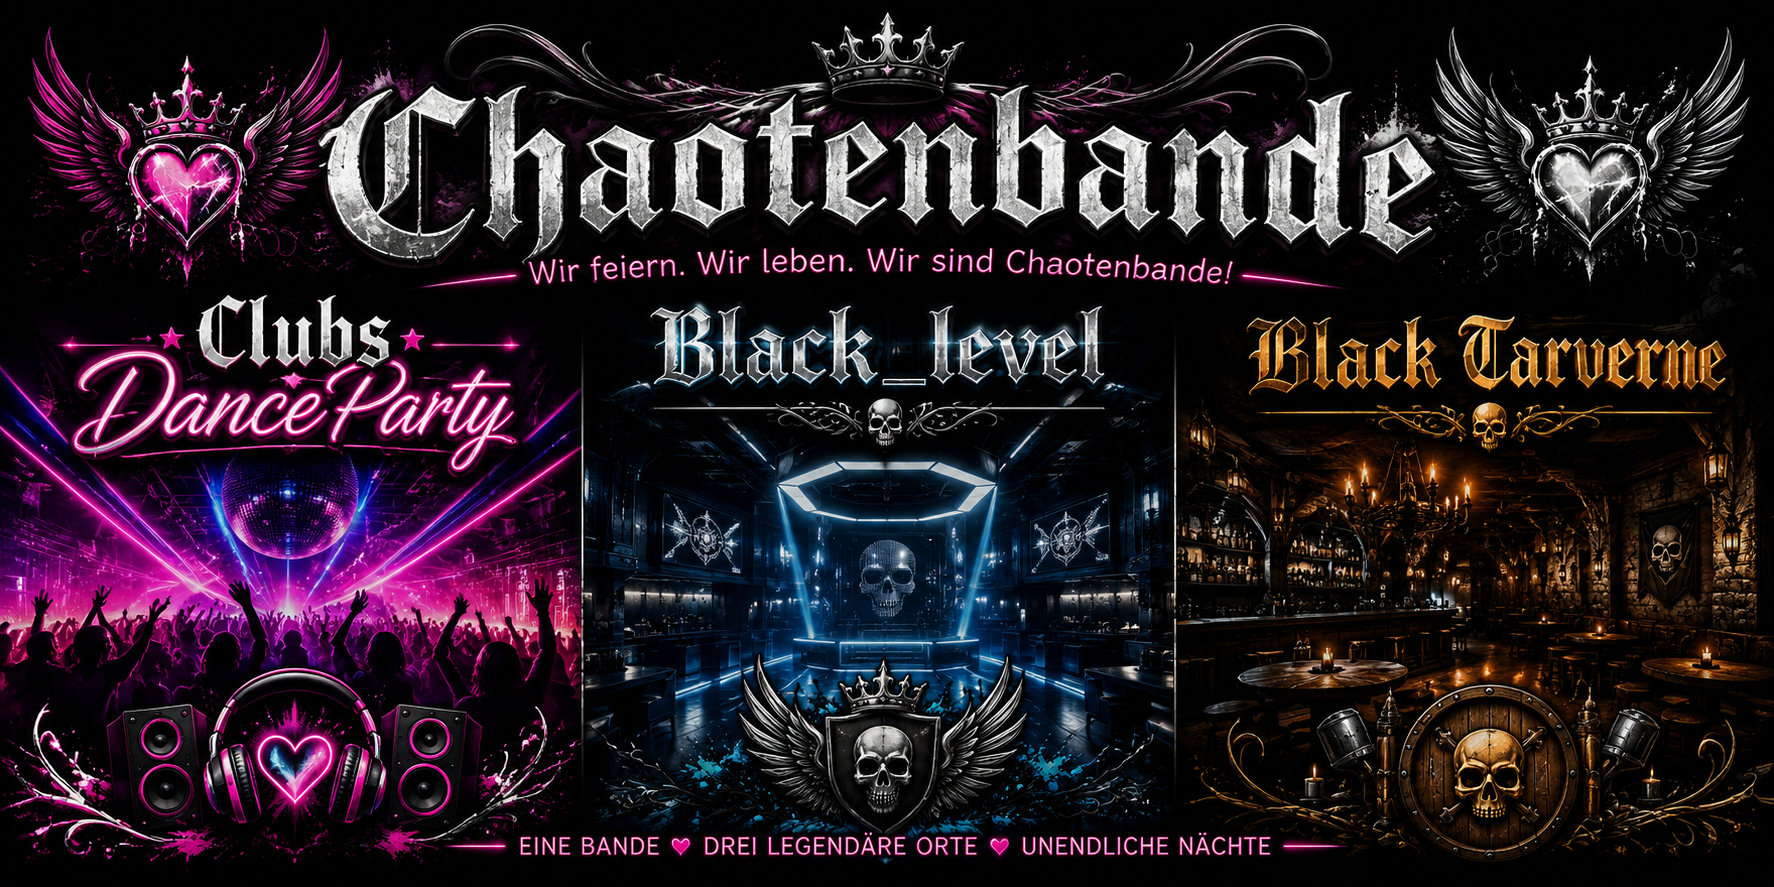
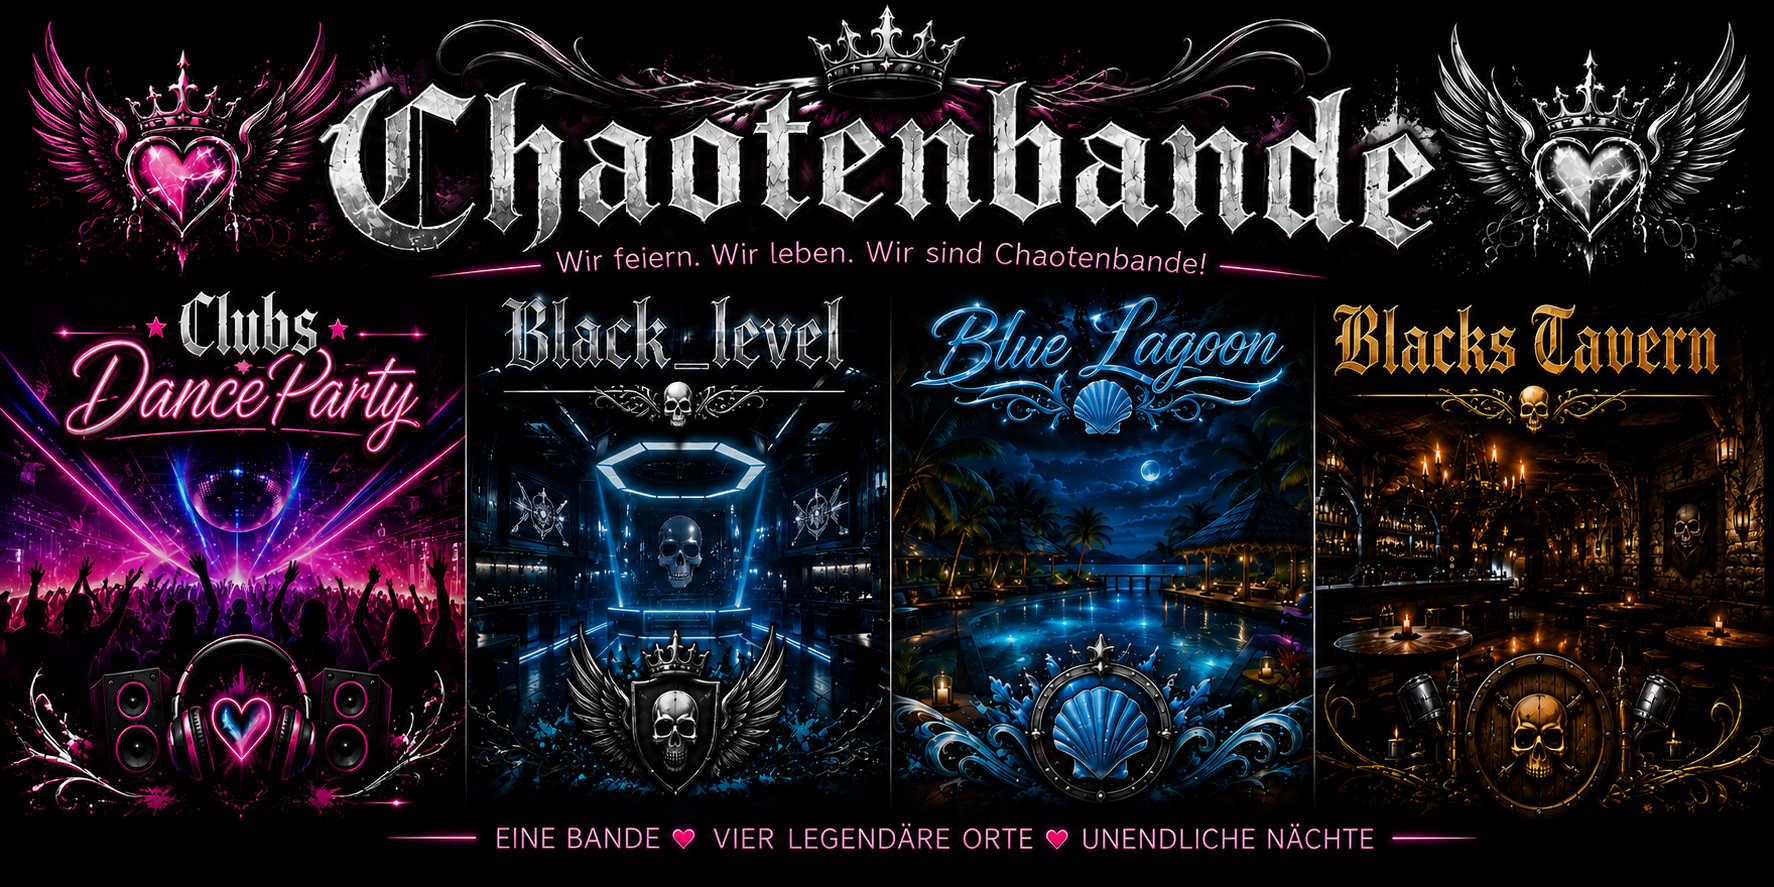
Expand Chaotenbande party page

diff --git a/docs/index.html b/docs/index.html
@@ -10,7 +10,7 @@
   <meta property="og:image" content="https://d4wizzard.github.io/chaotenbande/og.png">
   <meta property="og:type" content="website">
   <meta name="twitter:card" content="summary_large_image">
-  <link rel="icon" href="chaotenbande.png">
+  <link rel="icon" href="chaotenbande.png?v=20260807">
   <link rel="stylesheet" href="style.css?v=10">
 </head>
 <body>
@@ -20,6 +20,7 @@
       <div class="navlinks">
         <a href="#locations">Locations</a>
         <a href="#stamm">Der Stamm</a>
+        <a href="#discord">Discord</a>
         <a href="#memory">Erinnerung</a>
       </div>
     </nav>
@@ -34,24 +35,25 @@
     </header>
 
     <section class="poster" aria-label="Chaotenbande Banner">
-      <img src="chaotenbande.png" alt="Chaotenbande – Clubs, Black Level und Black Taverne">
+      <img src="chaotenbande.png?v=20260807" alt="Chaotenbande – Dance Party, Black Level, Blue Lagoon und Blacks Tavern">
     </section>
 
     <section class="statement">
-      <p>Eine Bande</p><span>♥</span><p>Drei legendäre Orte</p><span>♥</span><p>Unendliche Nächte</p>
+      <p>Eine Bande</p><span>♥</span><p>Vier legendäre Orte</p><span>♥</span><p>Unendliche Nächte</p>
     </section>
 
     <section class="section locations" id="locations">
       <div class="sectionHeading">
         <p class="eyebrow">Wo Chaos zu Magie wird</p>
-        <h2>Drei Welten.<br>Ein Gefühl.</h2>
+        <h2>Vier Welten.<br>Ein Gefühl.</h2>
       </div>
       <div class="locationGrid">
         <article class="locationCard card1"><span>01</span><div><div class="locationTitle"><span class="cbTag">CB</span><h3>GER Danceparty</h3></div><p>Neon. Bass. Ekstase.</p></div></article>
         <article class="locationCard card2"><span>02</span><div><div class="locationTitle"><span class="cbTag">CB</span><h3>Black_Level</h3></div><p>Dunkel. Elektrisch. Grenzenlos.</p></div></article>
-        <article class="locationCard card3"><span>03</span><div><div class="locationTitle"><span class="cbTag">CB</span><h3>Black Taverne</h3></div><p>Mystisch. Wild. Unvergesslich.</p></div></article>
+        <article class="locationCard card3"><span>03</span><div><div class="locationTitle"><span class="cbTag">CB</span><h3>Blue Lagoon</h3></div><p>Tropisch. Leuchtend. Frei.</p></div></article>
+        <article class="locationCard card4"><span>04</span><div><div class="locationTitle"><span class="cbTag">CB</span><h3>Blacks Tavern</h3></div><p>Mystisch. Wild. Unvergesslich.</p></div></article>
       </div>
-      <p class="bodyCopy">Ob pulsierender Dancefloor, futuristische Black-Level-Nacht oder düster-gemütliche Taverne: Die Chaoten Bande ist Gastgeber für Partys, bei denen Beats verbinden, Freundschaften entstehen und der Alltag draußen bleibt. Unsere DJs & DJanes liefern den Soundtrack – ihr macht die Nacht legendär.</p>
+      <p class="bodyCopy">Ob pulsierender Dancefloor, futuristische Black-Level-Nacht, tropische Blue Lagoon oder düster-gemütliche Taverne: Die Chaoten Bande ist Gastgeber für Partys, bei denen Beats verbinden, Freundschaften entstehen und der Alltag draußen bleibt. Unsere DJs & DJanes liefern den Soundtrack – ihr macht die Nacht legendär.</p>
     </section>
 
     <section class="section tribe" id="stamm">
@@ -65,8 +67,16 @@
         <article class="member"><img class="memberPhoto" src="bloodyrose.jpg" alt="Porträt von BloodyRose" style="object-position:center 25%"><h3>BloodyRose</h3><p>Feuer & Leidenschaft</p></article>
         <article class="member"><img class="memberPhoto" src="iamxox.png" alt="Porträt von IamXox" style="object-position:center 18%"><h3>IamXox</h3><p>Energie & Euphorie</p></article>
         <article class="member"><img class="memberPhoto" src="kimlee-darkside.png?v=20260801" alt="Porträt von KimLee_Darkside" style="object-position:center 22%"><h3>KimLee_Darkside</h3><p>Charme & Magie</p></article>
+        <article class="member"><img class="memberPhoto" src="volker.png" alt="Porträt von 🐾⇺≾⊋VØⱠ₭ɆⱤ⊊≿⇻🐾" style="object-position:center 18%"><h3>🐾⇺≾⊋VØⱠ₭ɆⱤ⊊≿⇻🐾</h3><p>Stärke & Loyalität</p></article>
       </div>
-      <p class="tribeCopy">Fünf Namen, ein Herzschlag. Gemeinsam schaffen sie Räume voller Freiheit, Respekt, Musik und echter Verbundenheit. Wer einmal mit der Chaoten Bande gefeiert hat, bleibt nicht einfach Gast – sondern wird Teil der Geschichte.</p>
+      <p class="tribeCopy">Sechs Namen, ein Herzschlag. Gemeinsam schaffen sie Räume voller Freiheit, Respekt, Musik und echter Verbundenheit. Wer einmal mit der Chaoten Bande gefeiert hat, bleibt nicht einfach Gast – sondern wird Teil der Geschichte.</p>
+    </section>
+
+    <section class="discordSection" id="discord">
+      <p class="eyebrow">Bleib mit der Bande verbunden</p>
+      <h2>Komm auf unseren<br><em>Discord-Server</em></h2>
+      <p class="discordCopy">Triff die Chaoten Bande, erfahre von kommenden Partys und Locations und werde Teil unserer Community.</p>
+      <a class="discordButton" href="https://discord.gg/CpmmsBNF3g" target="_blank" rel="noreferrer">Discord-Server beitreten <span>↗</span></a>
     </section>
 
     <section class="memory" id="memory">

diff --git a/app/page.tsx b/app/page.tsx
@@ -4,12 +4,14 @@ const members = [
   { name: "BloodyRose", role: "Feuer & Leidenschaft", image: "/bloodyrose.jpg", position: "center 25%" },
   { name: "IamXox", role: "Energie & Euphorie", image: "/iamxox.png", position: "center 18%" },
   { name: "KimLee_Darkside", role: "Charme & Magie", image: "/kimlee-darkside.png?v=20260801", position: "center 22%" },
+  { name: "🐾⇺≾⊋VØⱠ₭ɆⱤ⊊≿⇻🐾", role: "Stärke & Loyalität", image: "/volker.png", position: "center 18%" },
 ];
 
 const locations = [
   ["GER Danceparty", "Neon. Bass. Ekstase."],
   ["Black_Level", "Dunkel. Elektrisch. Grenzenlos."],
-  ["Black Taverne", "Mystisch. Wild. Unvergesslich."],
+  ["Blue Lagoon", "Tropisch. Leuchtend. Frei."],
+  ["Blacks Tavern", "Mystisch. Wild. Unvergesslich."],
 ];
 
 export default function Home() {
@@ -20,6 +22,7 @@ export default function Home() {
         <div className="navlinks">
           <a href="#locations">Locations</a>
           <a href="#stamm">Der Stamm</a>
+          <a href="#discord">Discord</a>
           <a href="#memory">Erinnerung</a>
         </div>
       </nav>
@@ -39,15 +42,15 @@ export default function Home() {
 
       <section className="poster" aria-label="Chaotenbande Banner">
         <img
-          src="/chaotenbande.png"
-          alt="Chaotenbande – Clubs, Black Level und Black Taverne"
+          src="/chaotenbande.png?v=20260807"
+          alt="Chaotenbande – Dance Party, Black Level, Blue Lagoon und Blacks Tavern"
         />
       </section>
 
       <section className="statement">
         <p>Eine Bande</p>
         <span>♥</span>
-        <p>Drei legendäre Orte</p>
+        <p>Vier legendäre Orte</p>
         <span>♥</span>
         <p>Unendliche Nächte</p>
       </section>
@@ -55,7 +58,7 @@ export default function Home() {
       <section className="section locations" id="locations">
         <div className="sectionHeading">
           <p className="eyebrow">Wo Chaos zu Magie wird</p>
-          <h2>Drei Welten.<br />Ein Gefühl.</h2>
+          <h2>Vier Welten.<br />Ein Gefühl.</h2>
         </div>
         <div className="locationGrid">
           {locations.map(([name, copy], index) => (
@@ -72,8 +75,8 @@ export default function Home() {
           ))}
         </div>
         <p className="bodyCopy">
-          Ob pulsierender Dancefloor, futuristische Black-Level-Nacht oder
-          düster-gemütliche Taverne: Die Chaoten Bande ist Gastgeber für Partys,
+          Ob pulsierender Dancefloor, futuristische Black-Level-Nacht, tropische
+          Blue Lagoon oder düster-gemütliche Taverne: Die Chaoten Bande ist Gastgeber für Partys,
           bei denen Beats verbinden, Freundschaften entstehen und der Alltag
           draußen bleibt. Unsere DJs & DJanes liefern den Soundtrack – ihr macht
           die Nacht legendär.
@@ -104,11 +107,23 @@ export default function Home() {
           ))}
         </div>
         <p className="tribeCopy">
-          Fünf Namen, ein Herzschlag. Gemeinsam schaffen sie Räume voller
+          Sechs Namen, ein Herzschlag. Gemeinsam schaffen sie Räume voller
           Freiheit, Respekt, Musik und echter Verbundenheit. Wer einmal mit der
           Chaoten Bande gefeiert hat, bleibt nicht einfach Gast – sondern wird
           Teil der Geschichte.
         </p>
+      </section>
+
+      <section className="discordSection" id="discord">
+        <p className="eyebrow">Bleib mit der Bande verbunden</p>
+        <h2>Komm auf unseren<br /><em>Discord-Server</em></h2>
+        <p className="discordCopy">
+          Triff die Chaoten Bande, erfahre von kommenden Partys und Locations
+          und werde Teil unserer Community.
+        </p>
+        <a className="discordButton" href="https://discord.gg/CpmmsBNF3g" target="_blank" rel="noreferrer">
+          Discord-Server beitreten <span>↗</span>
+        </a>
       </section>
 
       <section className="memory" id="memory">

diff --git a/app/globals.css b/app/globals.css
@@ -147,11 +147,18 @@ h1 em, h2 em { color: var(--pink-soft); font-weight: 400; }
   align-items: flex-end;
   border: 1px solid rgba(255,255,255,.12);
   background: linear-gradient(120deg, rgba(255,255,255,.055), rgba(255,255,255,.01));
+  background-position: center;
+  background-size: cover;
 }
+.locationCard > * { position: relative; z-index: 1; }
+.card1 { background-image: linear-gradient(90deg, rgba(7,3,10,.78), rgba(7,3,10,.38)), url("/ger-danceparty-club.jpg"); }
+.card3 { background-image: linear-gradient(90deg, rgba(4,6,14,.8), rgba(4,6,14,.35)), url("/blue-lagoon-dance-club.jpg"); }
+.card4 { background-image: linear-gradient(90deg, rgba(10,4,3,.82), rgba(10,4,3,.38)), url("/blacks-tavern.jpg"); }
 .locationCard::after { content:""; position:absolute; inset:auto -20% -70% 35%; height:180px; filter:blur(50px); opacity:.25; }
 .card1::after { background: var(--pink); }
 .card2::after { background: var(--blue); }
 .card3::after { background: var(--gold); }
+.card4::after { background: #d77728; }
 .locationCard > span { color: #716471; font-family: Georgia, serif; }
 .locationTitle { display: flex; align-items: center; gap: 10px; }
 .cbTag {
@@ -175,7 +182,7 @@ h1 em, h2 em { color: var(--pink-soft); font-weight: 400; }
   background-size: cover;
   box-shadow: inset 0 0 90px rgba(0,0,0,.58);
 }
-.memberGrid { display: grid; grid-template-columns: repeat(5, 1fr); gap: 14px; margin: 70px 0 45px; }
+.memberGrid { display: grid; grid-template-columns: repeat(3, 1fr); gap: 14px; margin: 70px 0 45px; }
 .member { padding: 38px 18px; text-align: center; background: #0b070c; border: 1px solid #271523; transition: .3s ease; }
 .member:hover { transform: translateY(-7px); border-color: rgba(255,45,171,.55); box-shadow: 0 18px 45px rgba(255,45,171,.08); }
 .memberPhoto {
@@ -193,9 +200,35 @@ h1 em, h2 em { color: var(--pink-soft); font-weight: 400; }
   display: grid; place-items: center; color: var(--pink-soft); font-family: Georgia, serif;
   box-shadow: inset 0 0 20px rgba(255,45,171,.12), 0 0 20px rgba(255,45,171,.08);
 }
-.member h3 { font-size: 1.1rem; margin: 0 0 8px; }
+.member h3 { font-size: 1.1rem; margin: 0 0 8px; overflow-wrap: anywhere; }
 .member p { margin: 0; color: #8e808d; font-size: .78rem; letter-spacing: .08em; text-transform: uppercase; }
 .tribeCopy { color: var(--muted); line-height: 1.9; text-align: center; max-width: 760px; margin: auto; }
+
+.discordSection {
+  padding: 74px 24px;
+  text-align: center;
+  border-top: 1px solid rgba(122,100,210,.28);
+  background: radial-gradient(circle at 50% 25%, rgba(88,101,242,.22), transparent 42%), #07050b;
+}
+.discordSection h2 { margin: .15em 0; font-size: clamp(2.5rem, 5vw, 5rem); }
+.discordSection h2 em { color: #9ca7ff; }
+.discordCopy { max-width: 620px; margin: 18px auto 28px; color: var(--muted); line-height: 1.7; }
+.discordButton {
+  display: inline-flex;
+  align-items: center;
+  gap: 12px;
+  padding: 14px 22px;
+  color: #fff;
+  background: #5865f2;
+  border: 1px solid rgba(255,255,255,.18);
+  font-size: .82rem;
+  font-weight: 700;
+  letter-spacing: .08em;
+  text-transform: uppercase;
+  box-shadow: 0 14px 40px rgba(88,101,242,.24);
+  transition: transform .25s ease, box-shadow .25s ease;
+}
+.discordButton:hover { transform: translateY(-3px); box-shadow: 0 18px 50px rgba(88,101,242,.38); }
 
 .memory {
   min-height: 0;

diff --git a/docs/style.css b/docs/style.css
@@ -145,11 +145,18 @@ h1 em, h2 em { color: var(--pink-soft); font-weight: 400; }
   align-items: flex-end;
   border: 1px solid rgba(255,255,255,.12);
   background: linear-gradient(120deg, rgba(255,255,255,.055), rgba(255,255,255,.01));
+  background-position: center;
+  background-size: cover;
 }
+.locationCard > * { position: relative; z-index: 1; }
+.card1 { background-image: linear-gradient(90deg, rgba(7,3,10,.78), rgba(7,3,10,.38)), url("ger-danceparty-club.jpg"); }
+.card3 { background-image: linear-gradient(90deg, rgba(4,6,14,.8), rgba(4,6,14,.35)), url("blue-lagoon-dance-club.jpg"); }
+.card4 { background-image: linear-gradient(90deg, rgba(10,4,3,.82), rgba(10,4,3,.38)), url("blacks-tavern.jpg"); }
 .locationCard::after { content:""; position:absolute; inset:auto -20% -70% 35%; height:180px; filter:blur(50px); opacity:.25; }
 .card1::after { background: var(--pink); }
 .card2::after { background: var(--blue); }
 .card3::after { background: var(--gold); }
+.card4::after { background: #d77728; }
 .locationCard > span { color: #716471; font-family: Georgia, serif; }
 .locationTitle { display: flex; align-items: center; gap: 10px; }
 .cbTag {
@@ -173,7 +180,7 @@ h1 em, h2 em { color: var(--pink-soft); font-weight: 400; }
   background-size: cover;
   box-shadow: inset 0 0 90px rgba(0,0,0,.58);
 }
-.memberGrid { display: grid; grid-template-columns: repeat(5, 1fr); gap: 14px; margin: 70px 0 45px; }
+.memberGrid { display: grid; grid-template-columns: repeat(3, 1fr); gap: 14px; margin: 70px 0 45px; }
 .member { padding: 38px 18px; text-align: center; background: #0b070c; border: 1px solid #271523; transition: .3s ease; }
 .member:hover { transform: translateY(-7px); border-color: rgba(255,45,171,.55); box-shadow: 0 18px 45px rgba(255,45,171,.08); }
 .memberPhoto {
@@ -191,9 +198,35 @@ h1 em, h2 em { color: var(--pink-soft); font-weight: 400; }
   display: grid; place-items: center; color: var(--pink-soft); font-family: Georgia, serif;
   box-shadow: inset 0 0 20px rgba(255,45,171,.12), 0 0 20px rgba(255,45,171,.08);
 }
-.member h3 { font-size: 1.1rem; margin: 0 0 8px; }
+.member h3 { font-size: 1.1rem; margin: 0 0 8px; overflow-wrap: anywhere; }
 .member p { margin: 0; color: #8e808d; font-size: .78rem; letter-spacing: .08em; text-transform: uppercase; }
 .tribeCopy { color: var(--muted); line-height: 1.9; text-align: center; max-width: 760px; margin: auto; }
+
+.discordSection {
+  padding: 74px 24px;
+  text-align: center;
+  border-top: 1px solid rgba(122,100,210,.28);
+  background: radial-gradient(circle at 50% 25%, rgba(88,101,242,.22), transparent 42%), #07050b;
+}
+.discordSection h2 { margin: .15em 0; font-size: clamp(2.5rem, 5vw, 5rem); }
+.discordSection h2 em { color: #9ca7ff; }
+.discordCopy { max-width: 620px; margin: 18px auto 28px; color: var(--muted); line-height: 1.7; }
+.discordButton {
+  display: inline-flex;
+  align-items: center;
+  gap: 12px;
+  padding: 14px 22px;
+  color: #fff;
+  background: #5865f2;
+  border: 1px solid rgba(255,255,255,.18);
+  font-size: .82rem;
+  font-weight: 700;
+  letter-spacing: .08em;
+  text-transform: uppercase;
+  box-shadow: 0 14px 40px rgba(88,101,242,.24);
+  transition: transform .25s ease, box-shadow .25s ease;
+}
+.discordButton:hover { transform: translateY(-3px); box-shadow: 0 18px 50px rgba(88,101,242,.38); }
 
 .memory {
   min-height: 0;

diff --git a/app/layout.tsx b/app/layout.tsx
@@ -15,7 +15,7 @@ export async function generateMetadata(): Promise<Metadata> {
     metadataBase,
     title,
     description,
-    icons: { icon: "/chaotenbande.png" },
+    icons: { icon: "/chaotenbande.png?v=20260807" },
     openGraph: {
       title,
       description,
